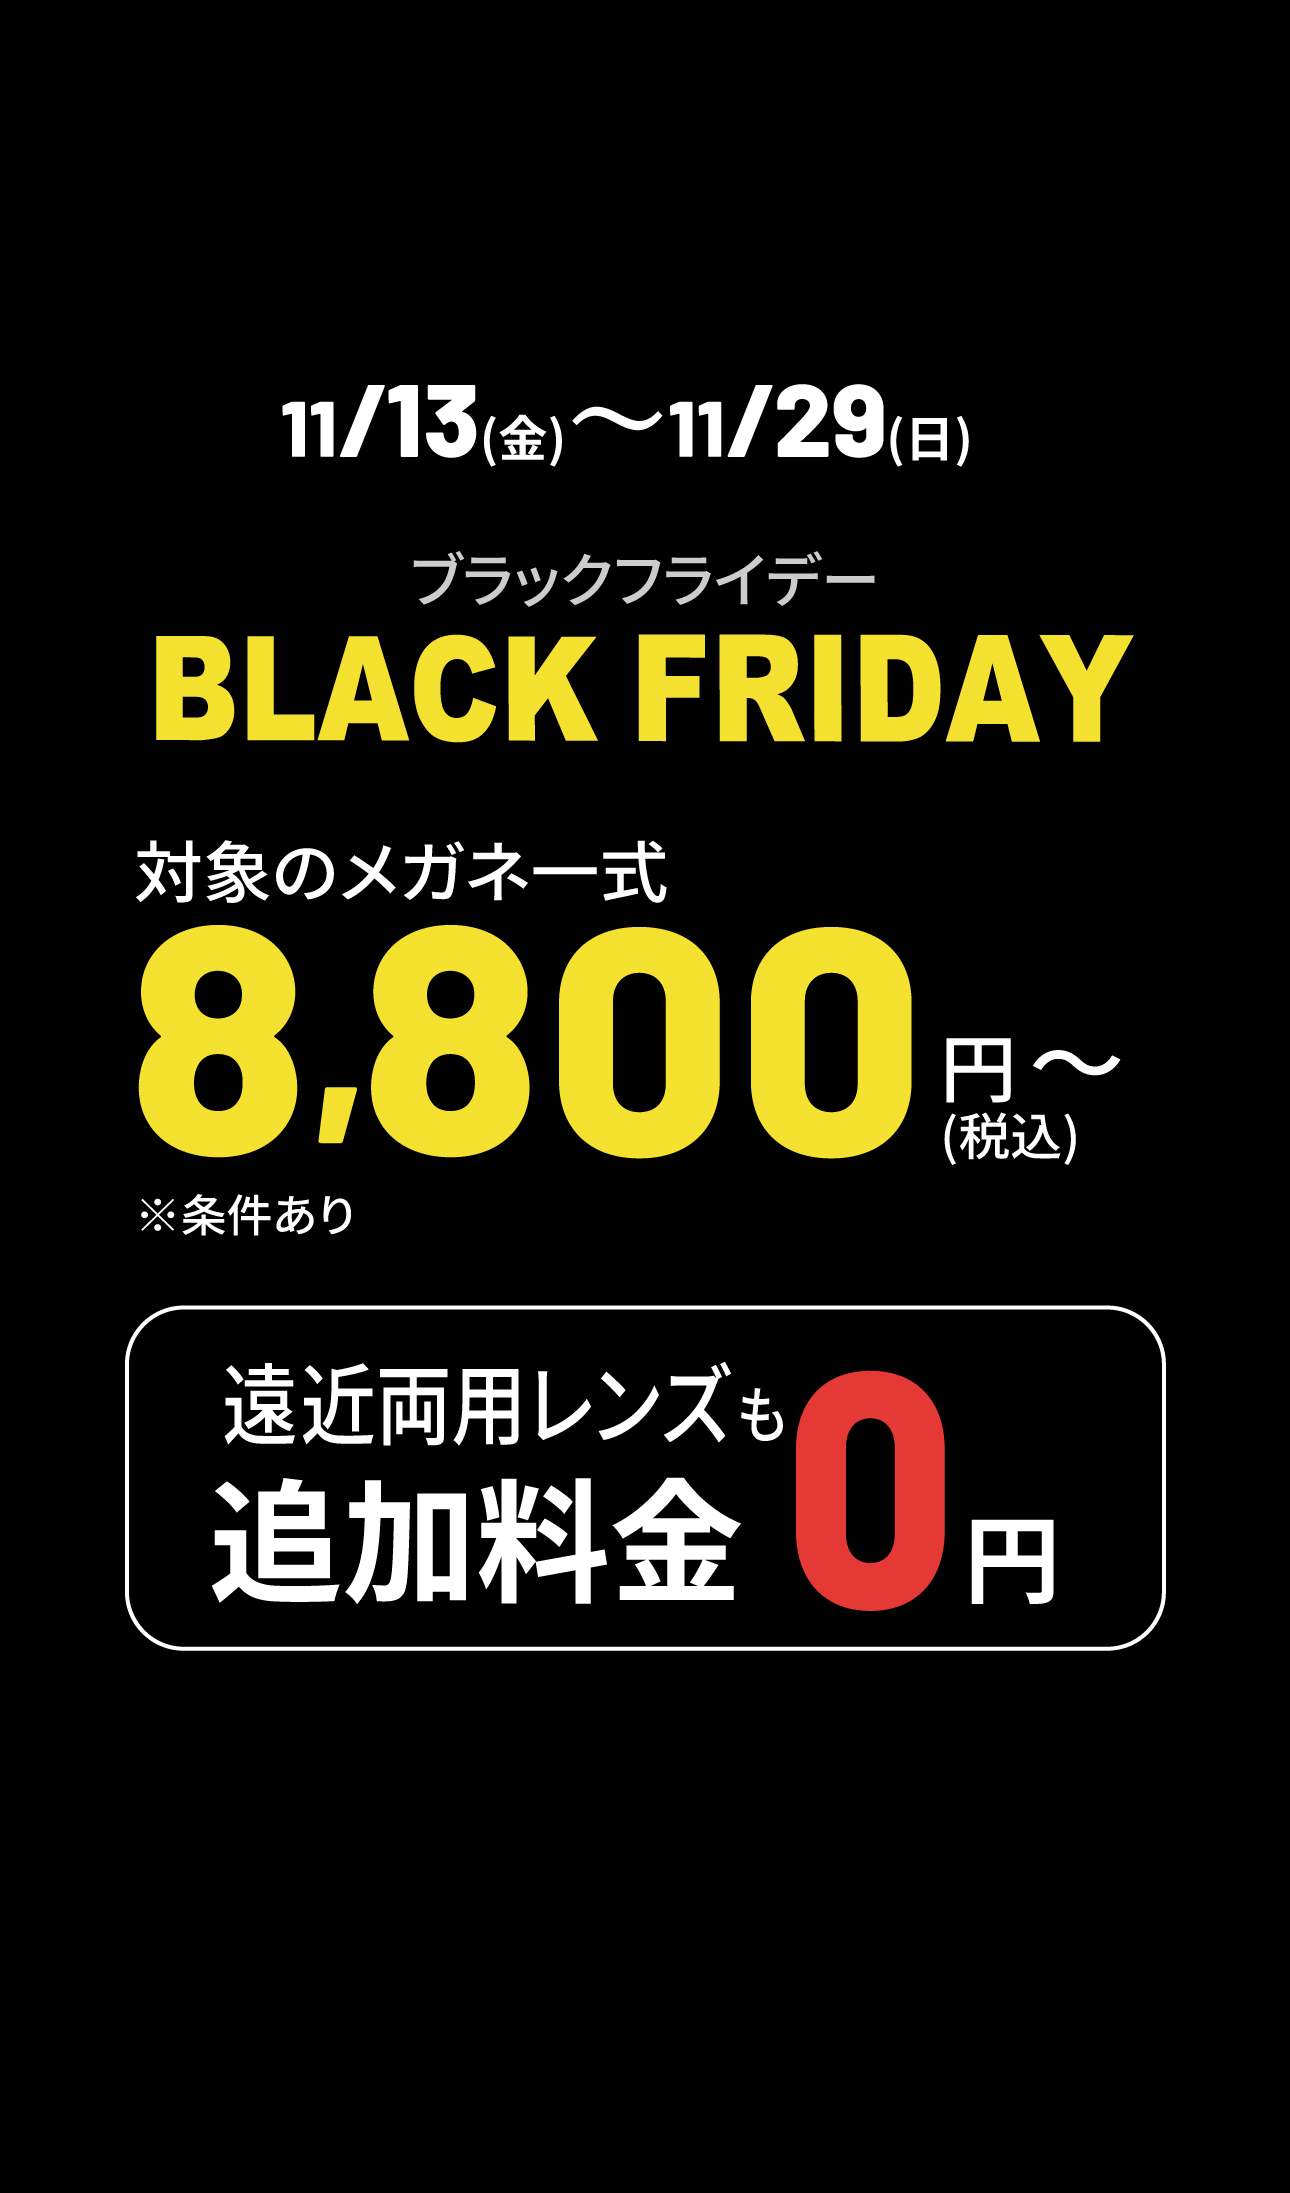
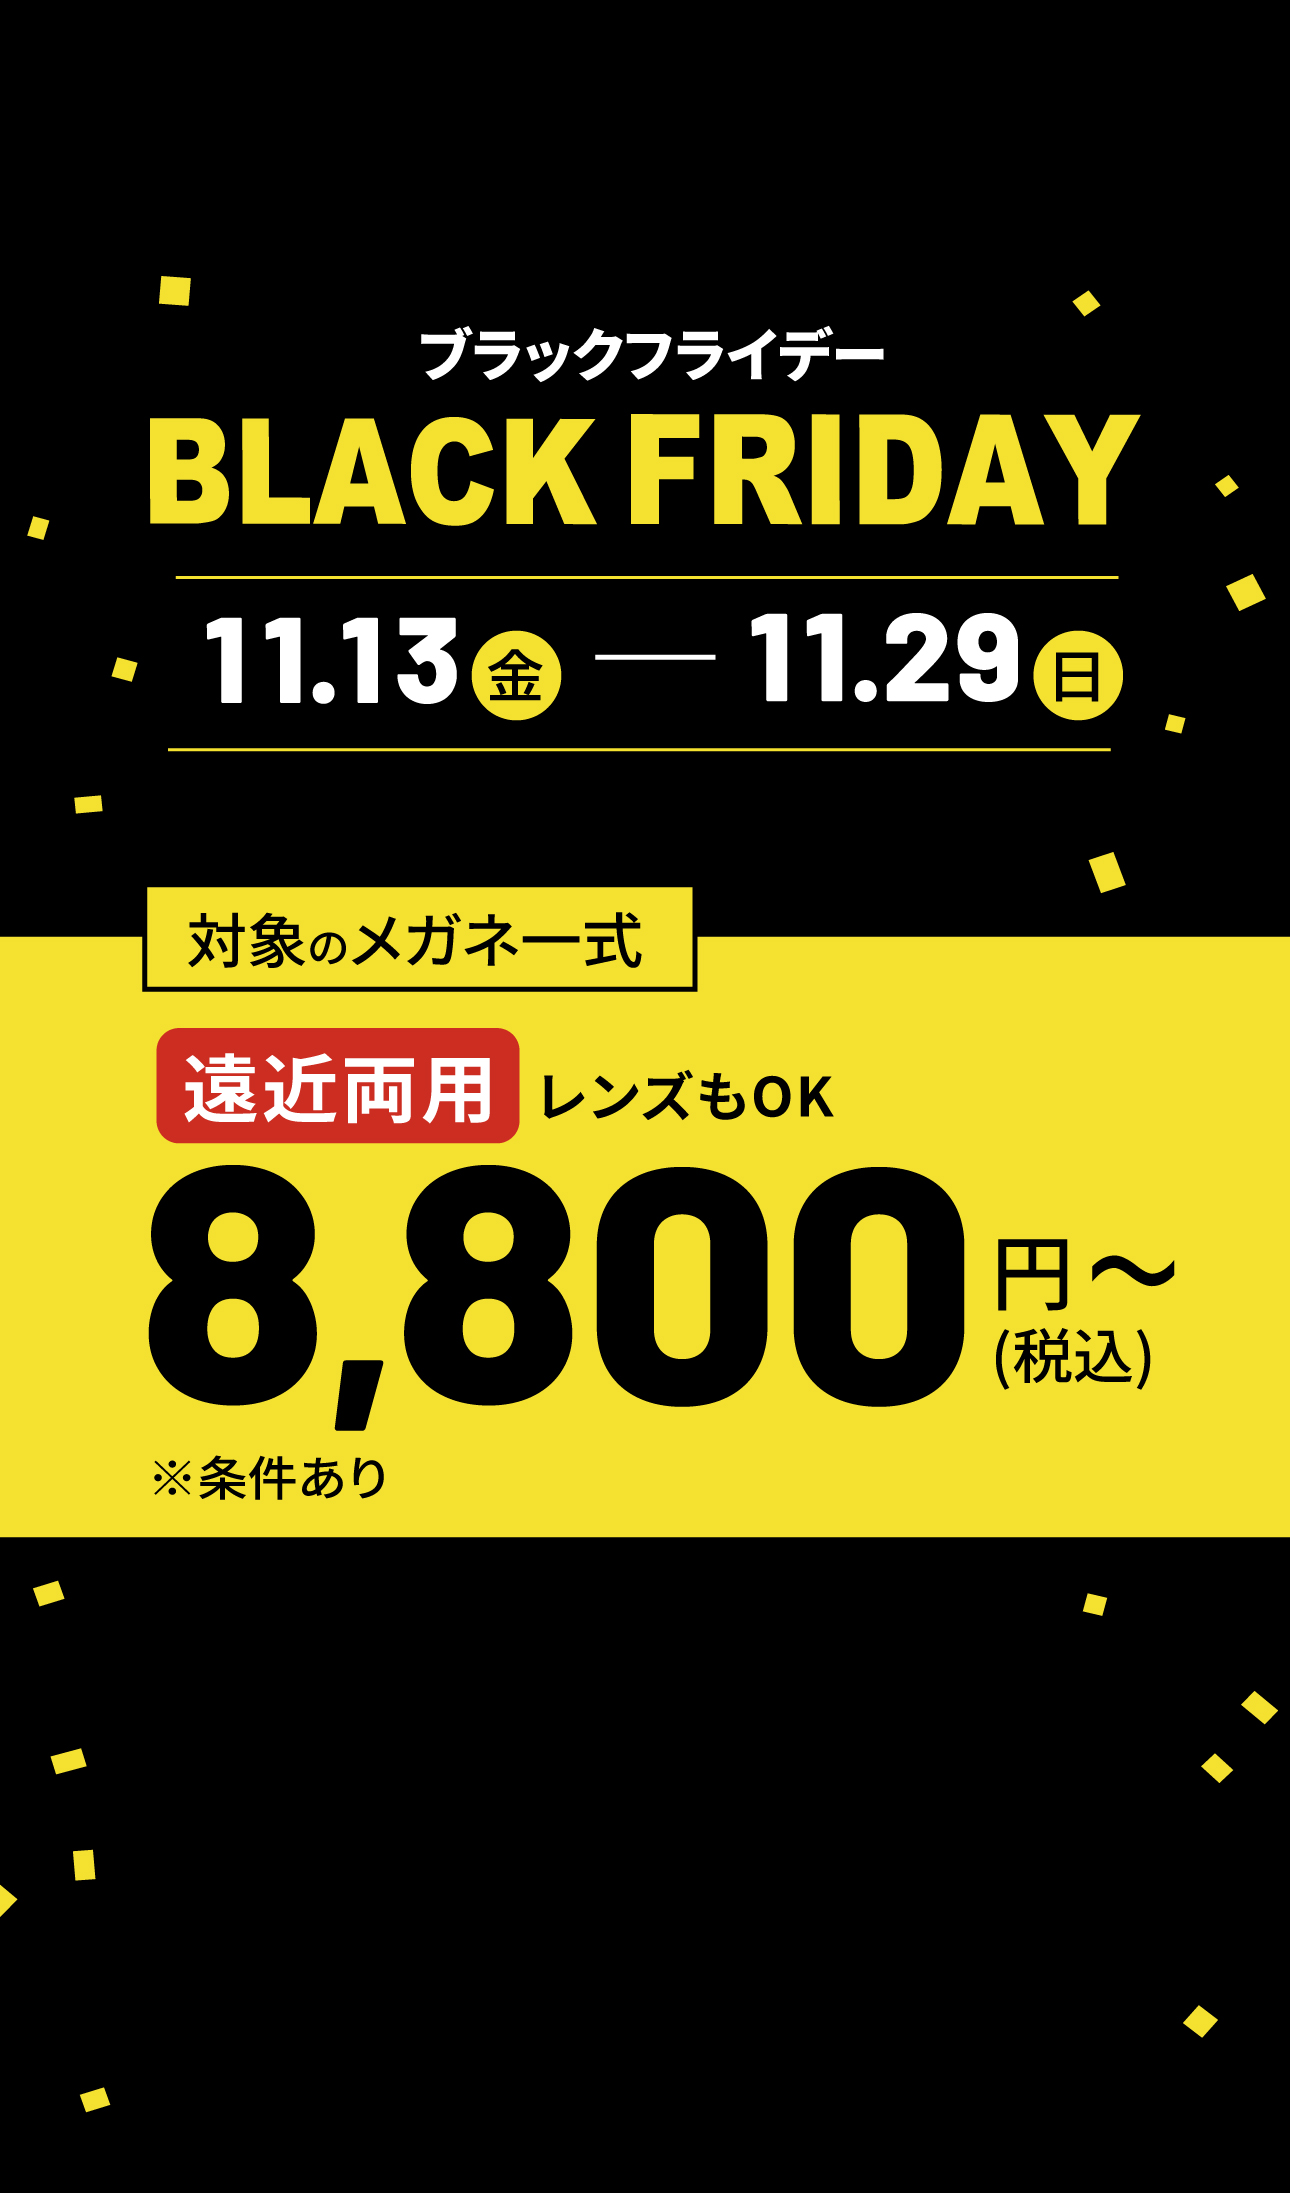
スマホのFV画像を新デザインに差しかえ（遠近両用レンズもOK・8,800円〜）

diff --git a/index.html b/index.html
@@ -1471,7 +1471,7 @@
         <a href="#shop-search" class="hd-cta" data-cta-location="header">来店予約</a>
       </nav>      <button class="hd-menu" id="menuBtn" aria-label="メニューを開く" aria-expanded="false" aria-controls="menu"><span></span><span></span><span></span></button>
     </div>
-    <h1 class="fv-img"><img class="fv-sp" src="images/blackfriday_fv_1290_2193.jpg?v=1024b" alt="ブラックフライデー BLACK FRIDAY 11/13(金)〜11/29(日) 対象のメガネ一式 8,800円〜(税込)※割引条件あり 遠近両用も追加料金0円" width="1290" height="2193"><img class="fv-pc-text" src="images/blackfriday_fv-pc-text.png?v=1020a" alt="ブラックフライデー BLACK FRIDAY 11/13(金)〜11/29(日) 対象のメガネ一式 8,800円〜(税込)※割引条件あり 遠近両用も追加料金0円" width="813" height="478"></h1>
+    <h1 class="fv-img"><img class="fv-sp" src="images/blackfriday_fv_1290_2193.jpg?v=1029a" alt="ブラックフライデー BLACK FRIDAY 11/13(金)〜11/29(日) 対象のメガネ一式 遠近両用レンズもOK 8,800円〜(税込) ※条件あり" width="1290" height="2193"><img class="fv-pc-text" src="images/blackfriday_fv-pc-text.png?v=1020a" alt="ブラックフライデー BLACK FRIDAY 11/13(金)〜11/29(日) 対象のメガネ一式 8,800円〜(税込)※割引条件あり 遠近両用も追加料金0円" width="813" height="478"></h1>
     <!-- 10/24 PCのFVは文字で組む（SPの画像と同じ並び：日付→BLACK FRIDAY→8,800円→遠近0円） -->
     <div class="fvp" aria-hidden="true">
       <p class="fvp-date">11/13<small>(金)</small>〜11/29<small>(日)</small></p>
